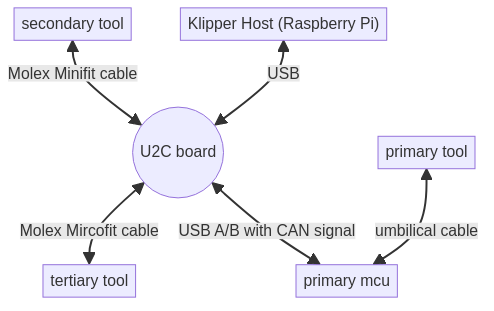
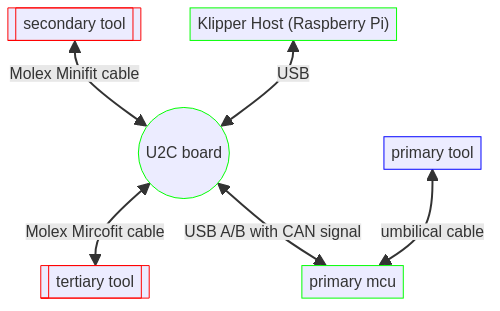
Deploying to gh-pages from @ willpuckett/kb_can@792715b61c1f65cf3ca96e157259852811712f33 🚀

diff --git a/index.md b/index.md
@@ -16,13 +16,19 @@ Klipper allows the use of multi-mcu in these cases. These additional mcus can be
 
 ## What is Canbus
 
-Canbus is a networking technology. CAN stands for Controller Area Network. We'll use the word canbus throughout this document to refer to CAN—it works better for search results, and disambiguates from the common English word, can. Originating from the early 1980's, canbus grew popular in the automotive industry to connect all the various pieces of a car, and for factory floor automation. Canbus runs on two wires, Can High (can_h), and Can Low (can_l). These two wires carry a differential signal, that is, the same magnitude signal where one is positive and the other negative, i.e. abs(can_l) = abs(can_h). By twisting the wires of this differential pair, greater resilience to interference is created, because the difference between the signals is still the same.
+Canbus is a linear network topology. CAN stands for Controller Area Network. We'll use the word canbus throughout this document to refer to CAN—it works better for search results, and disambiguates from the common English word, can. Originating from the early 1980's, canbus grew popular in the automotive industry to connect all the various pieces of a car, and for factory floor automation. Canbus runs on two wires, Can High (can_h), and Can Low (can_l). These two wires carry a differential signal, that is, the same magnitude signal where one is positive and the other negative, i.e. abs(can_l) = abs(can_h). By twisting the wires of this differential pair, greater resilience to interference is created, because the difference between the signals is still the same.
+
+The linear topology of canbus means that each device on the bus can communicate with every other device. This is in contrast to a star topology, where each device communicates with a central hub, and the hub communicates with each device. 
+
+Canbus is terminated at both ends of the line. This termination helps to reduce ringing on the line, and is usually a 120Ω resistor. Canbus can also be terminated in a split termination scheme, in which two 60Ω resistors connected are connected in series between can_h and can_l, and a capacitor connected to ground is placed between them.
 
 At a high level, canbus helps make I/O *plastic*, by adding a little or a lot just where it's needed. This sort of fluidity can make understanding canbus topology a little more challenging at first because so many different configurations are possible. 
 
 Not every mcu is canbus capable. Many STM32 and SAM mcus implement canbus in hardware. Canbus is implemented in software (in the PIO cores) on RP2040.
 
-An mcu doesn't create the final can signal directly. It communicates with a device called a *CAN transceiver* which creates the differential signal from two pins on the mcu. Some boards have a transceiver built in, but for many older boards, you'll need to solder and wire one yourself. If you're building from the ground up, or shopping for new hardware to implement your canbus designs, it's probably preferable to exclude boards without a transceiver built in.
+An mcu doesn't create the final CAN signal directly. It communicates with a device called a *CAN transceiver* which creates the differential signal from two pins on the mcu. Some boards have a transceiver built in, but for many older boards, you'll need to solder and/or wire one yourself. If you're building from the ground up, or shopping for new hardware to implement your canbus designs, it's probably preferable to exclude boards without a transceiver built in.
+
+Klipper implements CAN 2.0, which has a maximum speed of 1000000 bits per second. The newer CAN FD (Flexible Data Rate) has a maximum speed of 8000000 bits per second, but is not currently supported by Klipper. CAN FD is backwards compatible with CAN 2.0, and some newer devices may feature a CAN FD transceiver, which will work just fine with Klipper's CAN 2.0 implementation.
 
 ## Motive, or, Do I Need Can?
 
@@ -40,9 +46,9 @@ Canbus is especially convenient for parts of the printer that might be further a
 
 ## Wiring/Topology
 
-As mentioned earlier, canbus is two wires: can_h and can_l. These two wires are a shared bus, and connect to each device on the canbus. Many users also route power along with the CAN wires. 
+As mentioned earlier, canbus is two wires: can_h and can_l. These two wires are a linear network topology, and connect to each device on the canbus. Many users also route power along with the CAN wires. 
 
-Canbus is *terminated* at both ends by a 120Ω resistor. Proper termination helps ensure stability of the canbus line by reducing ringing.
+Canbus is *terminated* at both ends by either a 120Ω resistor, or a split termination scheme. Proper termination helps ensure stability of the canbus line by reducing ringing.
 
 <figure>
     <img src="https://raw.githubusercontent.com/willpuckett/kb_can/master/images/plug_types.jpeg"
@@ -63,17 +69,19 @@ That said, wiring is where canbus shines.
 
 ## The Canbus Bridge
 
-Klipper's host process runs on an sbc, so for it to talk to can devices, it will need to be attached to the canbus... Somehow... Most sbcs don't have canbus onboard (RK3568, RK3588, and RK3582 based devices do, but they'll need a transceiver), so most users add can connectivity via either SPI or a USB adapter. SPI adapters tend to require a little more work to configure, and, as a result, USB adapters have probably become more popular. 
+Klipper's host process runs on an sbc, so for it to talk to can devices, it will need to be attached to the canbus... Somehow... Most sbcs don't have canbus onboard (RK3568, RK3588, and RK3582 based devices do, but they'll need a transceiver), so most users add CAN connectivity via either SPI or a USB adapter. SPI adapters tend to require a little more work to configure, and, as a result, USB adapters have probably become more popular. 
 
-This has been especially true since Klipper introduced canbus bridge mode. This mode allows capable mcus to be configured to bridge can communications via USB. 
+This has been especially true since Klipper introduced canbus bridge mode. This mode allows capable mcus to be configured to bridge CAN communications via USB. 
 
 You might have seen devices such as the BTT U2C that operate solely as canbus bridges. These are very useful for working with older mcus that don't have can transceivers on board. They're probably a little easier to configure than soldering your own transceiver. Many STM devices can be configured to output the canbus signal on the USB port, and these devices allow connecting those directly, avoiding searching for available pins and soldering all together.
 
-The U2C bridge does require power, and if you're hoping to power your sbc with it, you'll have to get it from either your mcu's usb port, or so other available power pins. You may need to set a jumper to connect the usb port to the 5v rail, or solder over a diode on the usb VIN line. Consult your mcu's schematic and board drawings as necessary.
+The U2C bridge does require power, and if you're hoping to power your sbc with it, you'll have to get it from either your mcu's usb port, or so other available power pins. You may need to set a jumper to connect the usb port to the 5v rail, or solder over a diode on the usb VIN line. Consult your board's schematic as necessary.
 
 ## Toolhead Boards
 
-Perhaps the most popular use of canbus in Klipper is the toolhead board. A tool tends to be an I/O dense region, usually incorporating at minimum fans, a heater, an ADC for temperature measurements, a bed probe, and a stepper driver for the extruder. All the I/O from the tool can be wired to the toolhead board, and only the 2 canbus and 2 power wires need be routed back to the primary mcu or U2C (depending on topology). Additionally, most if not all toolhead boards have their own 5v regulator, bringing a little extra breathing room to an often heavily loaded 5v rail on the main mcu, perhaps creating headroom for a few extra leds.
+Perhaps the most popular use of canbus in Klipper is the toolhead board. A tool tends to be an I/O dense region, usually incorporating at minimum fans, a heater, an ADC for temperature measurements, a bed probe, and a stepper driver for the extruder. All the I/O from the tool can be wired to the toolhead board, and only the 2 canbus and 2 power wires need be routed back to the primary mcu or U2C (depending on topology). Additionally, most if not all toolhead boards have their own 5v regulator, bringing a little extra breathing room to an often heavily loaded 5v rail on the main mcu.
+
+Utilizing a CAN Bus setup offers significant advantages in terms of modularity and flexibility. By reducing the amount of wiring needed it can help to make the overall setup easier to manage and modify, allowing for such things as different toolheads to be swapped out easily and quickly managed through the configuration files.
 
 <figure>
     <img src="https://raw.githubusercontent.com/willpuckett/kb_can/master/images/ebb42_mini_sb.jpeg"
@@ -89,11 +97,11 @@ Some printers have several tools configured and all available for use during a s
     <figcaption>Mendel Max with TapChanger used to switch between 1.75mm Sherpa and 2.85mm Orbiter</figcaption>
 </figure>
 
-A canbus cable can also be an easy breakpoint for switching tools manually. For example, a delta printer with magballs and canbus could have an extruder and a laser mounted on separate effector plates that can be switched out by unplugging the single can cable. Or, a MendelMax could be retrofitted with a [TapChanger](https://github.com/viesturz/tapchanger) and switch tools by simply lifting the tool off the shuttle, changing the cable, and toggling the configuration in Klipper. (It's worth noting that canbus cables carrying power are NOT hot-swappable. Power the machine down completely before changing.) Such configurations save both costs and space by allowing sharing and reuse of a kinematic system with different tools. 
+A canbus cable can also be an easy breakpoint for modular setups, which involve switching tools manually and toggling a few lines in printer.cfg. For example, a delta printer with magballs and canbus could have an extruder and a laser mounted on separate effector plates that can be switched out by powering down the printer and unplugging the single can cable. Or, a MendelMax could be retrofitted with a [TapChanger](https://github.com/viesturz/tapchanger) and switch tools by powering down, lifting the tool off the shuttle, changing the cable, and toggling the configuration in Klipper. (It's worth noting that canbus cables carrying power are NOT hot-swappable. Power the machine down completely before changing.) Such configurations save both costs and space by allowing sharing and reuse of a kinematic system with different tools. 
 
 ## Topologies
 
-Let's get our feet on the ground by examining a few possible canbus topologies. As we do, we'll try to think in terms of routing the golden duo—power and data—together on a single 4 wire cable, to keep runs clean.
+Let's get our feet on the ground by examining a few possible canbus topologies. Terminating nodes in the following scenario diagrams are represented by a red border with double side edges. Non-terminated CAN elements are green, and non-CAN nodes are blue.
 
 <figure>
     <img src="https://raw.githubusercontent.com/willpuckett/kb_can/master/images/distribution_board.jpeg"
@@ -105,13 +113,14 @@ Let's get our feet on the ground by examining a few possible canbus topologies. 
 
 You probably wouldn't choose to lay out your canbus system like this now, but it's worth covering first as early systems often worked this way.
 
+The distribution board isn't doing any processing or switching of the can signal, it's just connecting the wires physically, and sometimes fusing the power rail to each connected device. Even though it may look like a branching star topology, it's still a linear network topology because all devices are communicating directly with each other.
 
-The distribution board isn't doing any processing or switching of the can signal, it's just connecting the wires physically, and sometimes fusing the power rail to each connected device.
 
-
-![diagram](./can-1.png)
+![diagram](https://willpuckett.github.io/kb_can/can-1.png)
 
 This topology would demonstrate a retrofit of a printer to have multiple tools and a rotary axis. The primary tool was NOT rewired from the primary mcu, the additional toolheads and rotary stepper were simply added on. It demonstrates that it is not necessary for the primary mcu to also be on canbus, as many older mcus (Arduino Mega, for instance) don't support it.
+
+Termination would be on the spi can adapter (it's soldered on and not jumperable), and on the last used slot of the distribution board. The device with the longest cable should be placed on this slot and terminated, in order to maximize signal integrity.
 
 ![An example of a (coopted) USB C canbus distribution board](https://biqu.equipment/cdn/shop/products/1_74578e99-1a9c-45e9-ae57-3d23cb5cf975_1220x1220_crop_center.jpg?v=1702633221)
 
@@ -121,17 +130,19 @@ Building on the idea of a distribution board, and consolidating the host CAN ada
 
 #### Retrofit Version
 
-![diagram](./can-2.png)
+![diagram](https://willpuckett.github.io/kb_can/can-2.png)
 
 This layout is topologically similar to the first layout. It would also be possible to connect some primary mcus to the U2C board by configuring them to output a CAN signal on the usb pins. In that case, the configuration would look as follows:
 
-![diagram](./can-3.png)
+![diagram](https://willpuckett.github.io/kb_can/can-3.png)
 
 #### Clearing the Chassis
 
 Creating ample, unobstructed airflow in a chassis can be a challenge. Coupled with the increased difficulty that maintaining the variety of small, difficult to identify cables that run to a toolhead presents, it made sense for some people to stop using the ports for the primary toolhead on the primary pcb, and just connect them all via canbus.
 
-![diagram](./can-4.png)
+![diagram](https://willpuckett.github.io/kb_can/can-4.png)
+
+Here, we would terminate the two devices with the longest cables. 
 
 The diagram doesn't really communicate how much more open a chassis feels without the primary tool cabling. It becomes much easier to work in the chassis area without the additional clutter, and reduces the likelihood of accidentally dislodging something. It also means that the printer doesn't have to be fully disconnected and unscrewed and flipped over to make a change to wiring at the toolhead, dramatically simplifying maintenance.
 
@@ -148,7 +159,8 @@ As interest in canbus grew, parts started to become unavailable during the chip 
 
 By compiling the mcu code with bridge mode support, many users were able to eliminate the need for a U2C altogether. 
 
-![diagram](./can-5.png)
+![diagram](https://willpuckett.github.io/kb_can/can-5.png)
+
 
 However, most primary boards did not have a transceiver on board, meaning that users needed to add one, usually SN65HVD230. Often the transceiver was packaged on a [longer, kind of floppy board](https://www.amazon.com/gp/product/B084M5ZQST)--not ideal for the potentially high vibration of a printer chassis. Sourcing a [more square version](https://www.amazon.com/gp/product/B07ZT7LLSK) with mounting holes proved useful. It could also be difficult to locate appropriate pins on some mcus that were near each other, as well as supply a proper voltage in order to not fry the mcu input pins.
 
@@ -168,9 +180,9 @@ The small, loose wires going to the transceivers could also be prone to transien
     <figcaption>A fystec sb can th board</figcaption>
 </figure>
 
-For users who manually switched tools between prints, bridge mode resulted in an much streamlined layout.
+For users who manually switched tools between prints, bridge mode resulted in a much streamlined layout.
 
-![diagram](./can-6.png)
+![diagram](https://willpuckett.github.io/kb_can/can-6.png)
 
 In this way, a user could switch tools, and then simply comment out an include to toggle between tools in `printer.cfg`, i.e.:
 
@@ -190,26 +202,26 @@ to change from extruder to laser.
 <figure>
     <img src="https://raw.githubusercontent.com/willpuckett/kb_can/master/images/flsun_sr_bridge.jpeg"
          alt="An Flsun SR configured with canbus bridge mode. The delta arms only hold one tool at a time, but tools can be switched at the effector plate">
-    <figcaption>An Flsun SR configured with canbus bridge mode. The delta arms only hold one tool at a time, but tools can be switched at the effector plate. Note the U2C is only being used as a transceiver.</figcaption>
+    <figcaption>An Flsun SR configured with canbus bridge mode. The delta arms only hold one tool at a time, but tools can be modularly switched at the effector plate. Note the U2C is only being used as a transceiver.</figcaption>
 </figure>
 
 ### A Few Addition Topological Notes
 
 For our topological scenarios, we had only a single canbus connected to the host. However, a host may have multiple canbusses connected. The host may communicate with mcus on different busses all in the context of a single Klipper device.
 
-A host may also run multiple Klipper processes, called instances. Each instance may communicate with mcus on any of the canbusses, however, it often makes sense topologically to have a the primary mcu on each printer configured in canbus bridge mode and have all of its canbus nodes connected to it. Such a topology means that a canbus can be powered down when its instance is idle--without affecting other instances.
+A host may also run multiple Klipper processes, called instances. Each instance may communicate with mcus on any of the canbusses, however, it often makes sense topologically to have the primary mcu on each printer configured in canbus bridge mode and have all of its canbus nodes connected to it. Such a topology means that a canbus can be powered down when its instance is idle--without affecting other instances.
 
 A multi-instance canbus topology might look like this:
 
-![diagram](./can-7.png)
+![diagram](https://willpuckett.github.io/kb_can/can-7.png)
 
-We tended to build our topologies around a star shape, but canbus can be daisy chained as well. It would work perfectly well to do something like
+The most correct way to wire the bus is to go from one node to the next to the next.
 
-![diagram](./can-8.png)
+![diagram](https://willpuckett.github.io/kb_can/can-8.png)
 
-However, most boards don't break out ports for daisy chaining, and the cabling could end up being a little awkward. Usually mostly star works well for tools, but if the canbus needed to make a stop off on the way to tools for say a gantry mounted x axis motor and endstop, that would be just fine.
+However, some tool boards don't break out pins for extending the bus linearly. So if the canbus needed to make a stop off on the way to tools for say a gantry mounted x axis motor and endstop, it could use a short stub. There should never be a long stub. 
 
-![diagram](./can-9.png)
+![diagram](https://willpuckett.github.io/kb_can/can-9.png)
 
 It would also be possible to have multiple hosts on the canbus, and configure multiple mcus in canbus bridge mode, however it is not recommendable as the bandwidth of the bus could quickly become saturated during a print.
 
@@ -245,7 +257,7 @@ For a more thorough top-to-bottom guide to the  process of installing Katapult a
 
 With multiple mcus, it becomes especially cumbersome to manually configure menuconfig for each mcu on every update.
 
-You probably used kiauh to set up Klipper, and it does have menus for building an flashing, but those don't include the capability to flash via canbus.
+You probably used kiauh to set up Klipper, and it does have menus for building and flashing, but those don't include the capability to flash via canbus.
 
 [update_klipper_and_mcus](https://github.com/fbeauKmi/update_klipper_and_mcus) runs updates on mcus configured in its `mcus.ini` file. It only updates Klipper.
 
